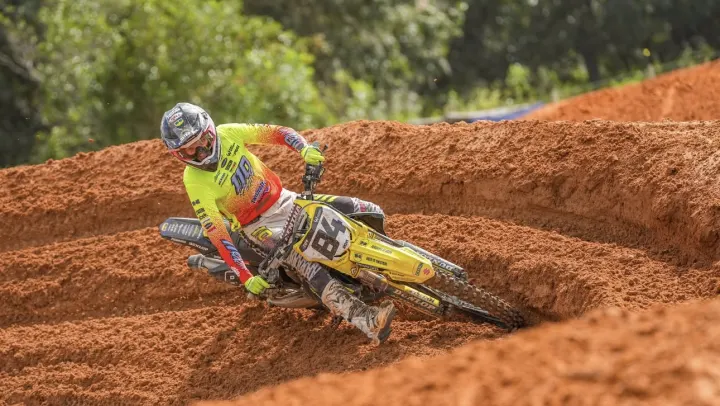
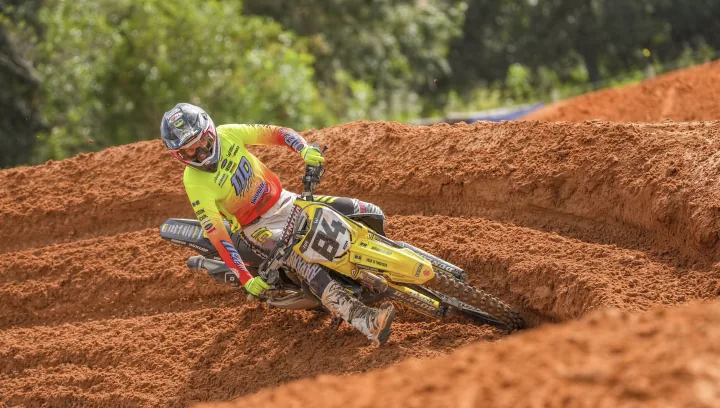
Sharper photos, Breakout framing, copy and CTA cleanup
- AI-upscale (SeedVR 3x) Josh's 1290px email photos; WebP at 720/1440/2560
- sizes hints account for cover-cropping so Retina screens load 2560px
- Breakout (desktop): wider panel, crop holds trophy + Crockett
- Remove gallery captions, Save PDF and View Tiers buttons
- Replace all em/en dashes with plain punctuation

diff --git a/index.html b/index.html
@@ -3,10 +3,10 @@
 <head>
 <meta charset="UTF-8">
 <meta name="viewport" content="width=device-width, initial-scale=1.0, viewport-fit=cover">
-<title>Crockett Myers #84 — 2027 Supercross Sponsorship</title>
+<title>Crockett Myers #84 | 2027 Supercross Sponsorship</title>
 
 <!-- SEO -->
-<meta name="description" content="Partner with Crockett Myers #84 — Suzuki RM-Z250 privateer racing the 2027 Monster Energy Supercross 250SX East division. 10 rounds of national TV exposure on Peacock &amp; NBC.">
+<meta name="description" content="Partner with Crockett Myers #84, a Suzuki RM-Z250 privateer racing the 2027 Monster Energy Supercross 250SX East division. 10 rounds of national TV exposure on Peacock &amp; NBC.">
 <meta name="keywords" content="Crockett Myers, 84, motocross sponsorship, 250SX East, supercross, privateer, Suzuki RM-Z250, Monster Energy Supercross, SMX, motorsport marketing">
 <meta name="author" content="Crockett Myers Racing">
 <meta name="robots" content="index, follow">
@@ -22,14 +22,14 @@
 <!-- Open Graph -->
 <meta property="og:type" content="website">
 <meta property="og:url" content="https://crockett-myers-2026-sponsorship.vercel.app/">
-<meta property="og:title" content="Crockett Myers #84 — 2027 Supercross Sponsorship">
+<meta property="og:title" content="Crockett Myers #84 | 2027 Supercross Sponsorship">
 <meta property="og:description" content="Suzuki privateer, 250SX East. 10 rounds of national TV on Peacock &amp; NBC. See what your brand gets.">
 <meta property="og:image" content="https://crockett-myers-2026-sponsorship.vercel.app/og-image.png">
 <meta property="og:image:width" content="1200">
 <meta property="og:image:height" content="630">
 <meta property="og:site_name" content="Crockett Myers Racing">
 <meta name="twitter:card" content="summary_large_image">
-<meta name="twitter:title" content="Crockett Myers #84 — 2027 Supercross Sponsorship">
+<meta name="twitter:title" content="Crockett Myers #84 | 2027 Supercross Sponsorship">
 <meta name="twitter:description" content="Suzuki privateer, 250SX East. 10 rounds on Peacock &amp; NBC. Your brand on the biggest stage in the sport.">
 <meta name="twitter:image" content="https://crockett-myers-2026-sponsorship.vercel.app/og-image.png">
 
@@ -37,7 +37,7 @@
 <link rel="preconnect" href="https://fonts.gstatic.com" crossorigin>
 <link href="https://fonts.googleapis.com/css2?family=Bebas+Neue&family=Barlow+Condensed:wght@400;500;600;700&family=Barlow:wght@300;400;500;600&family=Share+Tech+Mono&display=swap" rel="stylesheet">
 <link rel="preload" as="image" href="logos/myers84.webp">
-<link rel="preload" as="image" href="Photos/cm84-whip.webp">
+<link rel="preload" as="image" href="Photos/cm84-whip-1440.webp" imagesrcset="Photos/cm84-whip-720.webp 720w, Photos/cm84-whip-1440.webp 1440w, Photos/cm84-whip.webp 2560w" imagesizes="100vw">
 
 <style>
 /* ════════════════════════════════════════════════ TOKENS ═══ */
@@ -279,10 +279,10 @@ button { font: inherit; color: inherit; }
 .stage-strip img { height: max(24px, calc(var(--u) * 1.9)); width: auto; opacity: .8; }
 
 /* ════════════════════════════════════════════════ S4 2026 REVIEW ═══ */
-#s4 .photo { flex: 0 0 34%; }
-#s4 .photo img { object-position: 30% 45%; }
+#s4 .photo { flex: 0 0 44%; }
+#s4 .photo img { object-position: 24% 50%; }
 #s4 .pane { justify-content: center; }
-#s4 .photo::after { content: ''; position: absolute; inset: 0; background: linear-gradient(to right, transparent 55%, var(--black)), linear-gradient(to top, var(--black), transparent 45%); }
+#s4 .photo::after { content: ''; position: absolute; inset: 0; background: linear-gradient(to right, transparent 62%, var(--black)), linear-gradient(to top, rgba(6,6,6,.85), transparent 32%); }
 #s4 .badges { position: absolute; z-index: 2; left: calc(var(--u) * 2.2); bottom: calc(var(--u) * 2.6); display: flex; gap: 10px; flex-wrap: wrap; }
 .badge { font-family: var(--f-display); font-size: max(14px, calc(var(--u) * 1)); letter-spacing: .06em; padding: 8px 14px 6px; border-radius: 2px; }
 .badge.solid { background: var(--neon); color: var(--black); }
@@ -315,9 +315,8 @@ button { font: inherit; color: inherit; }
   grid-template-columns: 1.35fr 1fr 1fr .7fr; grid-template-rows: 1fr 1fr; grid-template-areas: "a b b v" "a c d v"; }
 .tile { position: relative; overflow: hidden; border-radius: 6px; background: var(--ink-2); cursor: zoom-in; border: 0; padding: 0; text-align: left; }
 .tile img, .tile video { position: absolute; inset: 0; width: 100%; height: 100%; object-fit: cover; transition: transform 1.2s var(--ease-out), filter .6s; filter: saturate(.92); }
-.tile::after { content: ''; position: absolute; inset: 0; background: linear-gradient(to top, rgba(0,0,0,.6), transparent 45%); opacity: .8; transition: opacity .4s; }
+.tile::after { content: ''; position: absolute; inset: 0; background: linear-gradient(to top, rgba(0,0,0,.35), transparent 40%); opacity: .8; transition: opacity .4s; }
 .tile::before { content: ''; position: absolute; inset: 0; z-index: 2; border: 1px solid rgba(233,252,15,0); border-radius: inherit; transition: border-color .4s; pointer-events: none; }
-.tile figcaption { position: absolute; z-index: 3; left: 14px; bottom: 12px; font-family: var(--f-mono); font-size: 10px; letter-spacing: .22em; text-transform: uppercase; color: var(--t-2); }
 @media (hover: hover) { .tile:hover img, .tile:hover video { transform: scale(1.05); filter: saturate(1.08); } .tile:hover::before { border-color: rgba(233,252,15,.5); } }
 .tile.a { grid-area: a; } .tile.b { grid-area: b; } .tile.c { grid-area: c; } .tile.d { grid-area: d; } .tile.v { grid-area: v; }
 .tile.a img { object-position: 52% 50%; } .tile.c img { object-position: 50% 30%; } .tile.d img { object-position: 30% 50%; } .tile.b img { object-position: 35% 60%; }
@@ -506,6 +505,7 @@ html.cur-hover #ring { width: 52px; height: 52px; margin: -26px 0 0 -26px; borde
   .stage-strip .logos img { height: 26px; }
 
   /* 2026 review */
+  #s4 .photo img { object-position: 30% 45%; }
   #s4 .photo { order: -1; flex: none; height: 44vh; min-height: min(260px, 70vh); }
   #s4 .photo::after { background: linear-gradient(to top, var(--black), transparent 55%); }
   #s4 .badges { left: 20px; bottom: 18px; }
@@ -562,7 +562,7 @@ html.cur-hover #ring { width: 52px; height: 52px; margin: -26px 0 0 -26px; borde
     #s1 .pane { padding-left: max(var(--pad-x), calc((100% - 178vh) / 2)); }
     .foot { padding-inline: max(var(--pad-x), calc((100% - 178vh) / 2)); }
     #s2 .pane { flex-basis: min(50%, 92vh); }
-    #s4 .photo { flex-basis: min(34%, 62vh); }
+    #s4 .photo { flex-basis: min(44%, 82vh); }
     .review { max-width: 150vh; }
   }
 
@@ -570,7 +570,8 @@ html.cur-hover #ring { width: 52px; height: 52px; margin: -26px 0 0 -26px; borde
   @media (max-width: 1280px) {
     #s2 .pane { flex-basis: 56%; }
     .stat .label { letter-spacing: .1em; }
-    #s4 .photo { flex-basis: 29%; }
+    #s4 .photo { flex-basis: 40%; }
+    #s4 .photo img { object-position: 36% 50%; }
     .reel { width: calc(var(--u) * 13); }
     .results li { grid-template-columns: calc(var(--u) * 6.4) 1fr; }
     .reel .tag span { display: none; }
@@ -659,9 +660,9 @@ html.cur-hover #ring { width: 52px; height: 52px; margin: -26px 0 0 -26px; borde
   <!-- ████████████ S1 · COVER ████████████ -->
   <section class="slide active play" id="s1" data-title="Cover" data-slug="cover" aria-roledescription="slide" aria-label="1 of 8: Cover">
     <div class="cover-bg" aria-hidden="true">
-      <img src="Photos/cm84-whip.webp" srcset="Photos/cm84-whip-720.webp 720w, Photos/cm84-whip.webp 1290w" sizes="100vw" alt="" style="object-position:52% 40%">
-      <img src="Photos/cm84-straight.webp" srcset="Photos/cm84-straight-720.webp 720w, Photos/cm84-straight.webp 1290w" sizes="100vw" alt="" style="object-position:55% 45%">
-      <img src="Photos/cm84-berm.webp" srcset="Photos/cm84-berm-720.webp 720w, Photos/cm84-berm.webp 1290w" sizes="100vw" alt="" style="object-position:38% 50%">
+      <img src="Photos/cm84-whip-1440.webp" srcset="Photos/cm84-whip-720.webp 720w, Photos/cm84-whip-1440.webp 1440w, Photos/cm84-whip.webp 2560w" sizes="max(100vw, 178vh)" alt="" style="object-position:52% 40%">
+      <img src="Photos/cm84-straight-1440.webp" srcset="Photos/cm84-straight-720.webp 720w, Photos/cm84-straight-1440.webp 1440w, Photos/cm84-straight.webp 2560w" sizes="max(100vw, 178vh)" alt="" style="object-position:55% 45%">
+      <img src="Photos/cm84-berm-1440.webp" srcset="Photos/cm84-berm-720.webp 720w, Photos/cm84-berm-1440.webp 1440w, Photos/cm84-berm.webp 2560w" sizes="max(100vw, 178vh)" alt="" style="object-position:38% 50%">
     </div>
     <div class="cover-84" aria-hidden="true">84</div>
     <div class="hint" aria-hidden="true">Use arrows or swipe <i></i></div>
@@ -716,12 +717,12 @@ html.cur-hover #ring { width: 52px; height: 52px; margin: -26px 0 0 -26px; borde
       <div class="milestones" data-a="up" data-d="5">
         <div class="ttl">CAREER MILESTONES</div>
         <ul>
-          <li>2nd overall &mdash; Brazil Arenacross Championship 2026</li>
-          <li>Made 7 of 9 SX Main Events &mdash; 2026 250SX West</li>
-          <li>First direct transfer to an SX Main &mdash; Glendale 2026</li>
-          <li>Top 10 &mdash; World Supercross, Calgary 2026</li>
-          <li>Arenacross Main Event win &mdash; Daytona 2024</li>
-          <li>Pro debut July 2023 &mdash; Spring Creek National</li>
+          <li>2nd overall, Brazil Arenacross Championship 2026</li>
+          <li>Made 7 of 9 SX Main Events in 2026 250SX West</li>
+          <li>First direct transfer to an SX Main, Glendale 2026</li>
+          <li>Top 10 at World Supercross, Calgary 2026</li>
+          <li>Arenacross Main Event win, Daytona 2024</li>
+          <li>Pro debut July 2023, Spring Creek National</li>
         </ul>
       </div>
       <div class="press" data-a="fade" data-d="6">
@@ -733,7 +734,7 @@ html.cur-hover #ring { width: 52px; height: 52px; margin: -26px 0 0 -26px; borde
       </div>
     </div>
     <div class="photo media" data-a="zoom">
-      <img src="Photos/cm84-jump.webp" srcset="Photos/cm84-jump-720.webp 720w, Photos/cm84-jump.webp 1290w" sizes="(max-width:900px) 100vw, 50vw" alt="Crockett Myers airborne on his #84 Suzuki">
+      <img src="Photos/cm84-jump-1440.webp" srcset="Photos/cm84-jump-720.webp 720w, Photos/cm84-jump-1440.webp 1440w, Photos/cm84-jump.webp 2560w" sizes="(max-width:900px) max(100vw, 60vh), max(56vw, 114vh)" alt="Crockett Myers airborne on his #84 Suzuki">
       <div class="big84" aria-hidden="true">84</div>
       <img class="logo" src="logos/myers84.webp" alt="Myers 84 logo">
     </div>
@@ -742,30 +743,30 @@ html.cur-hover #ring { width: 52px; height: 52px; margin: -26px 0 0 -26px; borde
   <!-- ████████████ S3 · THE OPPORTUNITY ████████████ -->
   <section class="slide" id="s3" data-title="The Opportunity" data-slug="opportunity" aria-roledescription="slide" aria-label="3 of 8: The Opportunity">
     <div class="stripe"></div>
-    <div class="bg" aria-hidden="true"><img src="Photos/cm84-corner.webp" alt=""></div>
+    <div class="bg" aria-hidden="true"><img src="Photos/cm84-corner-1440.webp" srcset="Photos/cm84-corner-720.webp 720w, Photos/cm84-corner-1440.webp 1440w, Photos/cm84-corner.webp 2560w" sizes="max(100vw, 178vh)" alt=""></div>
     <div class="pane">
       <div class="eyebrow" data-a="left">The Opportunity</div>
-      <h2 class="h1" data-a="left" data-d="1">Why Crockett &mdash; <em>What You Get</em></h2>
+      <h2 class="h1" data-a="left" data-d="1">Why Crockett. <em>What You Get.</em></h2>
       <p class="lead" data-a="fade" data-d="2" style="color:var(--t-3);margin-bottom:calc(var(--gap)*1.4);max-width:96ch">One of the most compelling, high-visibility marketing opportunities in professional Supercross. Here's exactly what your partnership delivers.</p>
 
       <div class="grid-opp">
         <div class="card hot tv" data-a="up" data-d="3">
           <span class="ghost">01</span>
           <div class="split-l"><div class="num big"><span data-count="10">10</span>M+</div><div class="unit">Viewers / Season</div></div>
-          <div class="split-r"><h3 class="neon" style="margin-top:0">TV &amp; Broadcast</h3><p>National coverage on Peacock &amp; NBC every race weekend. Your brand rides into living rooms across the country &mdash; on the bike, in the pits, and on the podium cam.</p></div>
+          <div class="split-r"><h3 class="neon" style="margin-top:0">TV &amp; Broadcast</h3><p>National coverage on Peacock &amp; NBC every race weekend. Your brand rides into living rooms across the country: on the bike, in the pits, and on the podium cam.</p></div>
         </div>
         <div class="card rounds" data-a="up" data-d="4">
           <span class="ghost">02</span>
           <div class="num mid" data-count="10">10</div><div class="unit">Rounds of exposure &middot; 2027</div>
           <h3>Bike Branding</h3>
-          <p>Your logo on the bike at all 7 East rounds plus 3 East/West Showdowns &mdash; TV, photography and pits.</p>
+          <p>Your logo on the bike at all 7 East rounds plus 3 East/West Showdowns, seen on TV, in photography and in the pits.</p>
         </div>
 
         <div class="card third" data-a="up" data-d="5">
           <span class="ghost">03</span>
           <div class="num mid"><span data-count="25">25</span>K+</div><div class="unit">IG Followers</div>
           <h3>Social &amp; Content</h3>
-          <p>Dedicated posts, stories and reels. Race recaps, BTS and lifestyle &mdash; authentic integration, not logo slaps.</p>
+          <p>Dedicated posts, stories and reels. Race recaps, BTS and lifestyle. Authentic integration, not logo slaps.</p>
         </div>
         <div class="card third" data-a="up" data-d="5">
           <span class="ghost">04</span>
@@ -788,7 +789,7 @@ html.cur-hover #ring { width: 52px; height: 52px; margin: -26px 0 0 -26px; borde
           </div>
           <div class="split-r">
             <h3 class="neon" style="margin-top:0">The Only 250 Suzuki in a Main</h3>
-            <p>Last season Crockett was the <strong style="color:#fff;font-weight:600">only 250 Suzuki rider to make any Supercross Main Event</strong> &mdash; and he made 7 of 9. Your brand gets camera time with zero manufacturer competition, plus the privateer growth story fans rally behind. Early partners ride the curve with him.</p>
+            <p>Last season Crockett was the <strong style="color:#fff;font-weight:600">only 250 Suzuki rider to make any Supercross Main Event</strong>, and he made 7 of 9. Your brand gets camera time with zero manufacturer competition, plus the privateer growth story fans rally behind. Early partners ride the curve with him.</p>
           </div>
         </div>
       </div>
@@ -807,7 +808,7 @@ html.cur-hover #ring { width: 52px; height: 52px; margin: -26px 0 0 -26px; borde
   <section class="slide" id="s4" data-title="2026 Season in Review" data-slug="2026" aria-roledescription="slide" aria-label="4 of 8: 2026 Season in Review">
     <div class="stripe"></div><div class="carbon"></div>
     <div class="photo media" data-a="zoom">
-      <img src="Photos/cm84-podium.webp" srcset="Photos/cm84-podium-720.webp 720w, Photos/cm84-podium.webp 1290w" sizes="(max-width:900px) 100vw, 34vw" alt="Crockett Myers on the Brazil Arenacross podium">
+      <img src="Photos/cm84-podium-1440.webp" srcset="Photos/cm84-podium-720.webp 720w, Photos/cm84-podium-1440.webp 1440w, Photos/cm84-podium.webp 2560w" sizes="(max-width:900px) max(100vw, 80vh), 170vh" alt="Crockett Myers on the Brazil Arenacross podium">
       <div class="badges" data-a="up" data-d="5">
         <span class="badge solid">2ND OVERALL &middot; BRAZIL AX</span>
         <span class="badge line">SEASON COMPLETE</span>
@@ -819,11 +820,11 @@ html.cur-hover #ring { width: 52px; height: 52px; margin: -26px 0 0 -26px; borde
       <p class="lead" data-a="fade" data-d="2" style="color:var(--t-3);margin-bottom:calc(var(--gap)*1.2)">Main Event regular in the 250SX West class, then a podium finish abroad. 2026 proved Crockett belongs on the big stage.</p>
       <div class="review">
         <ul class="results">
-          <li data-a="left" data-d="3"><div class="num"><span data-count="16">16</span><sup>TH</sup></div><div><div class="what">Overall &mdash; AMA 250SX West Championship</div><div class="sub">Monster Energy Supercross</div></div></li>
+          <li data-a="left" data-d="3"><div class="num"><span data-count="16">16</span><sup>TH</sup></div><div><div class="what">Overall, AMA 250SX West Championship</div><div class="sub">Monster Energy Supercross</div></div></li>
           <li data-a="left" data-d="4"><div class="num" data-count="7">7</div><div><div class="what">AMA Supercross Main Event qualifications</div><div class="sub">Only 250 Suzuki to make a main</div></div></li>
           <li data-a="left" data-d="5"><div class="num" data-count="3">3</div><div><div class="what">Top-15 Supercross finishes</div><div class="sub">250SX West</div></div></li>
-          <li data-a="left" data-d="6"><div class="num"><span data-count="2">2</span><sup>ND</sup></div><div><div class="what">Overall &mdash; Brazil Arenacross Championship</div><div class="sub">International podium</div></div></li>
-          <li data-a="left" data-d="7"><div class="num">TOP 10</div><div><div class="what">World Supercross &mdash; Calgary</div><div class="sub">FIM WSX</div></div></li>
+          <li data-a="left" data-d="6"><div class="num"><span data-count="2">2</span><sup>ND</sup></div><div><div class="what">Overall, Brazil Arenacross Championship</div><div class="sub">International podium</div></div></li>
+          <li data-a="left" data-d="7"><div class="num">TOP 10</div><div><div class="what">World Supercross, Calgary</div><div class="sub">FIM WSX</div></div></li>
         </ul>
         <div class="reel media" data-a="right" data-d="5">
           <video data-src="Photos/brazil-ax.mp4" poster="Photos/brazil-ax-poster.webp" muted loop playsinline preload="none" aria-label="Brazil Arenacross highlights"></video>
@@ -842,14 +843,13 @@ html.cur-hover #ring { width: 52px; height: 52px; margin: -26px 0 0 -26px; borde
           <div class="eyebrow" data-a="left">Gallery</div>
           <h2 class="h1" data-a="left" data-d="1">#84 <em>In Action</em></h2>
         </div>
-        <div class="label" data-a="fade" data-d="2">Tap any image to expand</div>
       </div>
       <div class="bento">
-        <button class="tile a" data-a="zoom" data-d="2" data-full="Photos/cm84-whip.webp"><img src="Photos/cm84-whip.webp" alt="Crockett Myers whipping over a jump"><figcaption>Style for days</figcaption></button>
-        <button class="tile b" data-a="zoom" data-d="3" data-full="Photos/cm84-berm.webp"><img src="Photos/cm84-berm.webp" alt="Crockett Myers railing a berm"><figcaption>Rail it</figcaption></button>
-        <button class="tile c" data-a="zoom" data-d="4" data-full="Photos/cm84-jump.webp"><img src="Photos/cm84-jump-720.webp" alt="Crockett Myers airborne"><figcaption>Send</figcaption></button>
-        <button class="tile d" data-a="zoom" data-d="5" data-full="Photos/cm84-corner.webp"><img src="Photos/cm84-corner-720.webp" alt="Crockett Myers cornering"><figcaption>Roost</figcaption></button>
-        <button class="tile v" data-a="zoom" data-d="6" data-full="Photos/brazil-ax.mp4"><video data-src="Photos/brazil-ax.mp4" poster="Photos/brazil-ax-poster.webp" muted loop playsinline preload="none" aria-hidden="true"></video><figcaption>Brazil AX &middot; Video</figcaption></button>
+        <button class="tile a" data-a="zoom" data-d="2" data-full="Photos/cm84-whip.webp"><img src="Photos/cm84-whip-1440.webp" srcset="Photos/cm84-whip-720.webp 720w, Photos/cm84-whip-1440.webp 1440w, Photos/cm84-whip.webp 2560w" sizes="(max-width:900px) max(100vw, 75vw), max(30vw, 130vh)" alt="Crockett Myers whipping over a jump"></button>
+        <button class="tile b" data-a="zoom" data-d="3" data-full="Photos/cm84-berm.webp"><img src="Photos/cm84-berm-1440.webp" srcset="Photos/cm84-berm-720.webp 720w, Photos/cm84-berm-1440.webp 1440w, Photos/cm84-berm.webp 2560w" sizes="(max-width:900px) 100vw, 45vw" alt="Crockett Myers railing a berm"></button>
+        <button class="tile c" data-a="zoom" data-d="4" data-full="Photos/cm84-jump.webp"><img src="Photos/cm84-jump-1440.webp" srcset="Photos/cm84-jump-720.webp 720w, Photos/cm84-jump-1440.webp 1440w, Photos/cm84-jump.webp 2560w" sizes="(max-width:900px) 50vw, max(24vw, 42vh)" alt="Crockett Myers airborne"></button>
+        <button class="tile d" data-a="zoom" data-d="5" data-full="Photos/cm84-corner.webp"><img src="Photos/cm84-corner-1440.webp" srcset="Photos/cm84-corner-720.webp 720w, Photos/cm84-corner-1440.webp 1440w, Photos/cm84-corner.webp 2560w" sizes="(max-width:900px) max(50vw, 75vw), max(24vw, 66vh)" alt="Crockett Myers cornering"></button>
+        <button class="tile v" data-a="zoom" data-d="6" data-full="Photos/brazil-ax.mp4"><video data-src="Photos/brazil-ax.mp4" poster="Photos/brazil-ax-poster.webp" muted loop playsinline preload="none" aria-hidden="true"></video></button>
       </div>
     </div>
   </section>
@@ -861,12 +861,12 @@ html.cur-hover #ring { width: 52px; height: 52px; margin: -26px 0 0 -26px; borde
       <div class="tiers-head">
         <div class="eyebrow c" data-a="fade">Partnership Levels</div>
         <h2 class="h1" data-a="fade" data-d="1">Sponsorship <em>Tiers</em></h2>
-        <p class="lead" data-a="fade" data-d="2" style="max-width:58ch">Flexible options built to maximize your exposure and ROI &mdash; from a single post to a full-season partnership. Every tier puts your brand on the bike.</p>
+        <p class="lead" data-a="fade" data-d="2" style="max-width:58ch">Flexible options built to maximize your exposure and ROI, from a single post to a full-season partnership. Every tier puts your brand on the bike.</p>
       </div>
       <div class="tiers">
         <article class="tier featured" data-a="up" data-d="2">
           <span class="flag">BEST VALUE</span>
-          <div class="hd"><div class="label">Tier 01</div><div class="nm">Official Partner</div><div class="pr">$25K &ndash; $40K</div></div>
+          <div class="hd"><div class="label">Tier 01</div><div class="nm">Official Partner</div><div class="pr">$25K-$40K</div></div>
           <ul>
             <li>Premium logo placement on bike</li>
             <li>Multiple social media content posts</li>
@@ -878,10 +878,10 @@ html.cur-hover #ring { width: 52px; height: 52px; margin: -26px 0 0 -26px; borde
           </ul>
         </article>
         <article class="tier" data-a="up" data-d="3">
-          <div class="hd"><div class="label">Tier 02</div><div class="nm">Performance Partner</div><div class="pr">$7,500 &ndash; $12,500</div></div>
+          <div class="hd"><div class="label">Tier 02</div><div class="nm">Performance Partner</div><div class="pr">$7,500-$12,500</div></div>
           <ul>
             <li>Logo on bike</li>
-            <li>4&ndash;6 social media posts</li>
+            <li>4-6 social media posts</li>
             <li>Content during race weekends &amp; training</li>
             <li>Brand tags in athlete updates &amp; race posts</li>
             <li>Multi-round exposure</li>
@@ -891,7 +891,7 @@ html.cur-hover #ring { width: 52px; height: 52px; margin: -26px 0 0 -26px; borde
           <div class="hd"><div class="label">Tier 03</div><div class="nm">Single Round</div><div class="pr">$2,500</div></div>
           <ul>
             <li>Logo placement on bike for one round</li>
-            <li>2 social posts &mdash; race weekend &amp; race recap</li>
+            <li>2 social posts: race weekend &amp; race recap</li>
             <li>Perfect for testing the waters</li>
           </ul>
         </article>
@@ -936,19 +936,15 @@ html.cur-hover #ring { width: 52px; height: 52px; margin: -26px 0 0 -26px; borde
   <!-- ████████████ S8 · CONTACT ████████████ -->
   <section class="slide" id="s8" data-title="Let's Ride" data-slug="contact" aria-roledescription="slide" aria-label="8 of 8: Let's Ride">
     <div class="stripe"></div><div class="carbon"></div>
-    <div class="bg" aria-hidden="true"><img src="Photos/cm84-straight.webp" alt=""></div>
+    <div class="bg" aria-hidden="true"><img src="Photos/cm84-straight-1440.webp" srcset="Photos/cm84-straight-720.webp 720w, Photos/cm84-straight-1440.webp 1440w, Photos/cm84-straight.webp 2560w" sizes="max(60vw, 178vh)" alt=""></div>
     <div class="pane">
       <div class="contact">
         <div>
           <img class="logo" src="logos/myers84.webp" alt="Myers 84" data-a="left">
           <h2 class="h1" data-a="left" data-d="1">Let's<br><em>Ride.</em></h2>
-          <p class="lead" data-a="fade" data-d="2">Whether you're a motocross brand looking for visibility or a company ready to tap into a passionate, loyal audience &mdash; there's a partnership level that works for you. Let's build something together.</p>
+          <p class="lead" data-a="fade" data-d="2">Whether you're a motocross brand looking for visibility or a company ready to tap into a passionate, loyal audience, there's a partnership level that works for you. Let's build something together.</p>
           <div class="ctas" data-a="up" data-d="3">
             <a class="btn primary" href="mailto:joshua.a.macklin@gmail.com?subject=Crockett%20Myers%20%2384%20%E2%80%94%202027%20Sponsorship">Become a Sponsor &rarr;</a>
-            <button class="btn ghost" type="button" data-goto="tiers">View Tiers</button>
-            <button class="btn ghost no-print" type="button" id="save-pdf">
-              <svg viewBox="0 0 24 24" fill="none" stroke="currentColor" stroke-width="2" stroke-linecap="round" stroke-linejoin="round"><path d="M12 3v12m0 0l-5-5m5 5l5-5M4 21h16"/></svg>Save PDF
-            </button>
           </div>
         </div>
         <div class="person" data-a="right" data-d="2">
@@ -1160,12 +1156,6 @@ html.cur-hover #ring { width: 52px; height: 52px; margin: -26px 0 0 -26px; borde
   $$('.tile').forEach(t => t.addEventListener('click', () => openLB(t.dataset.full, $('img', t)?.alt)));
   lb.addEventListener('click', e => { if (e.target === lb || e.target.closest('.x')) closeLB(); });
 
-  /* ─────────── PDF ─────────── */
-  $('#save-pdf').addEventListener('click', () => {
-    $$('video[data-src]').forEach(v => { if (!v.src) v.src = v.dataset.src; });
-    window.print();
-  });
-
   /* ─────────── CURSOR (precise pointers only) ─────────── */
   if (matchMedia('(pointer: fine) and (hover: hover)').matches && !reduce) {
     document.documentElement.classList.add('has-cursor');
@@ -1179,7 +1169,7 @@ html.cur-hover #ring { width: 52px; height: 52px; margin: -26px 0 0 -26px; borde
   }
 
   /* ─────────── PRELOADER: real asset wait, min/max bounded ─────────── */
-  const preImgs = ['logos/myers84.webp', 'Photos/cm84-whip.webp', 'Photos/cm84-straight.webp'];
+  const preImgs = ['logos/myers84.webp'];
   const ready = Promise.all([
     document.fonts ? document.fonts.ready : Promise.resolve(),
     ...preImgs.map(src => new Promise(res => { const i = new Image(); i.onload = i.onerror = res; i.src = src; }))
